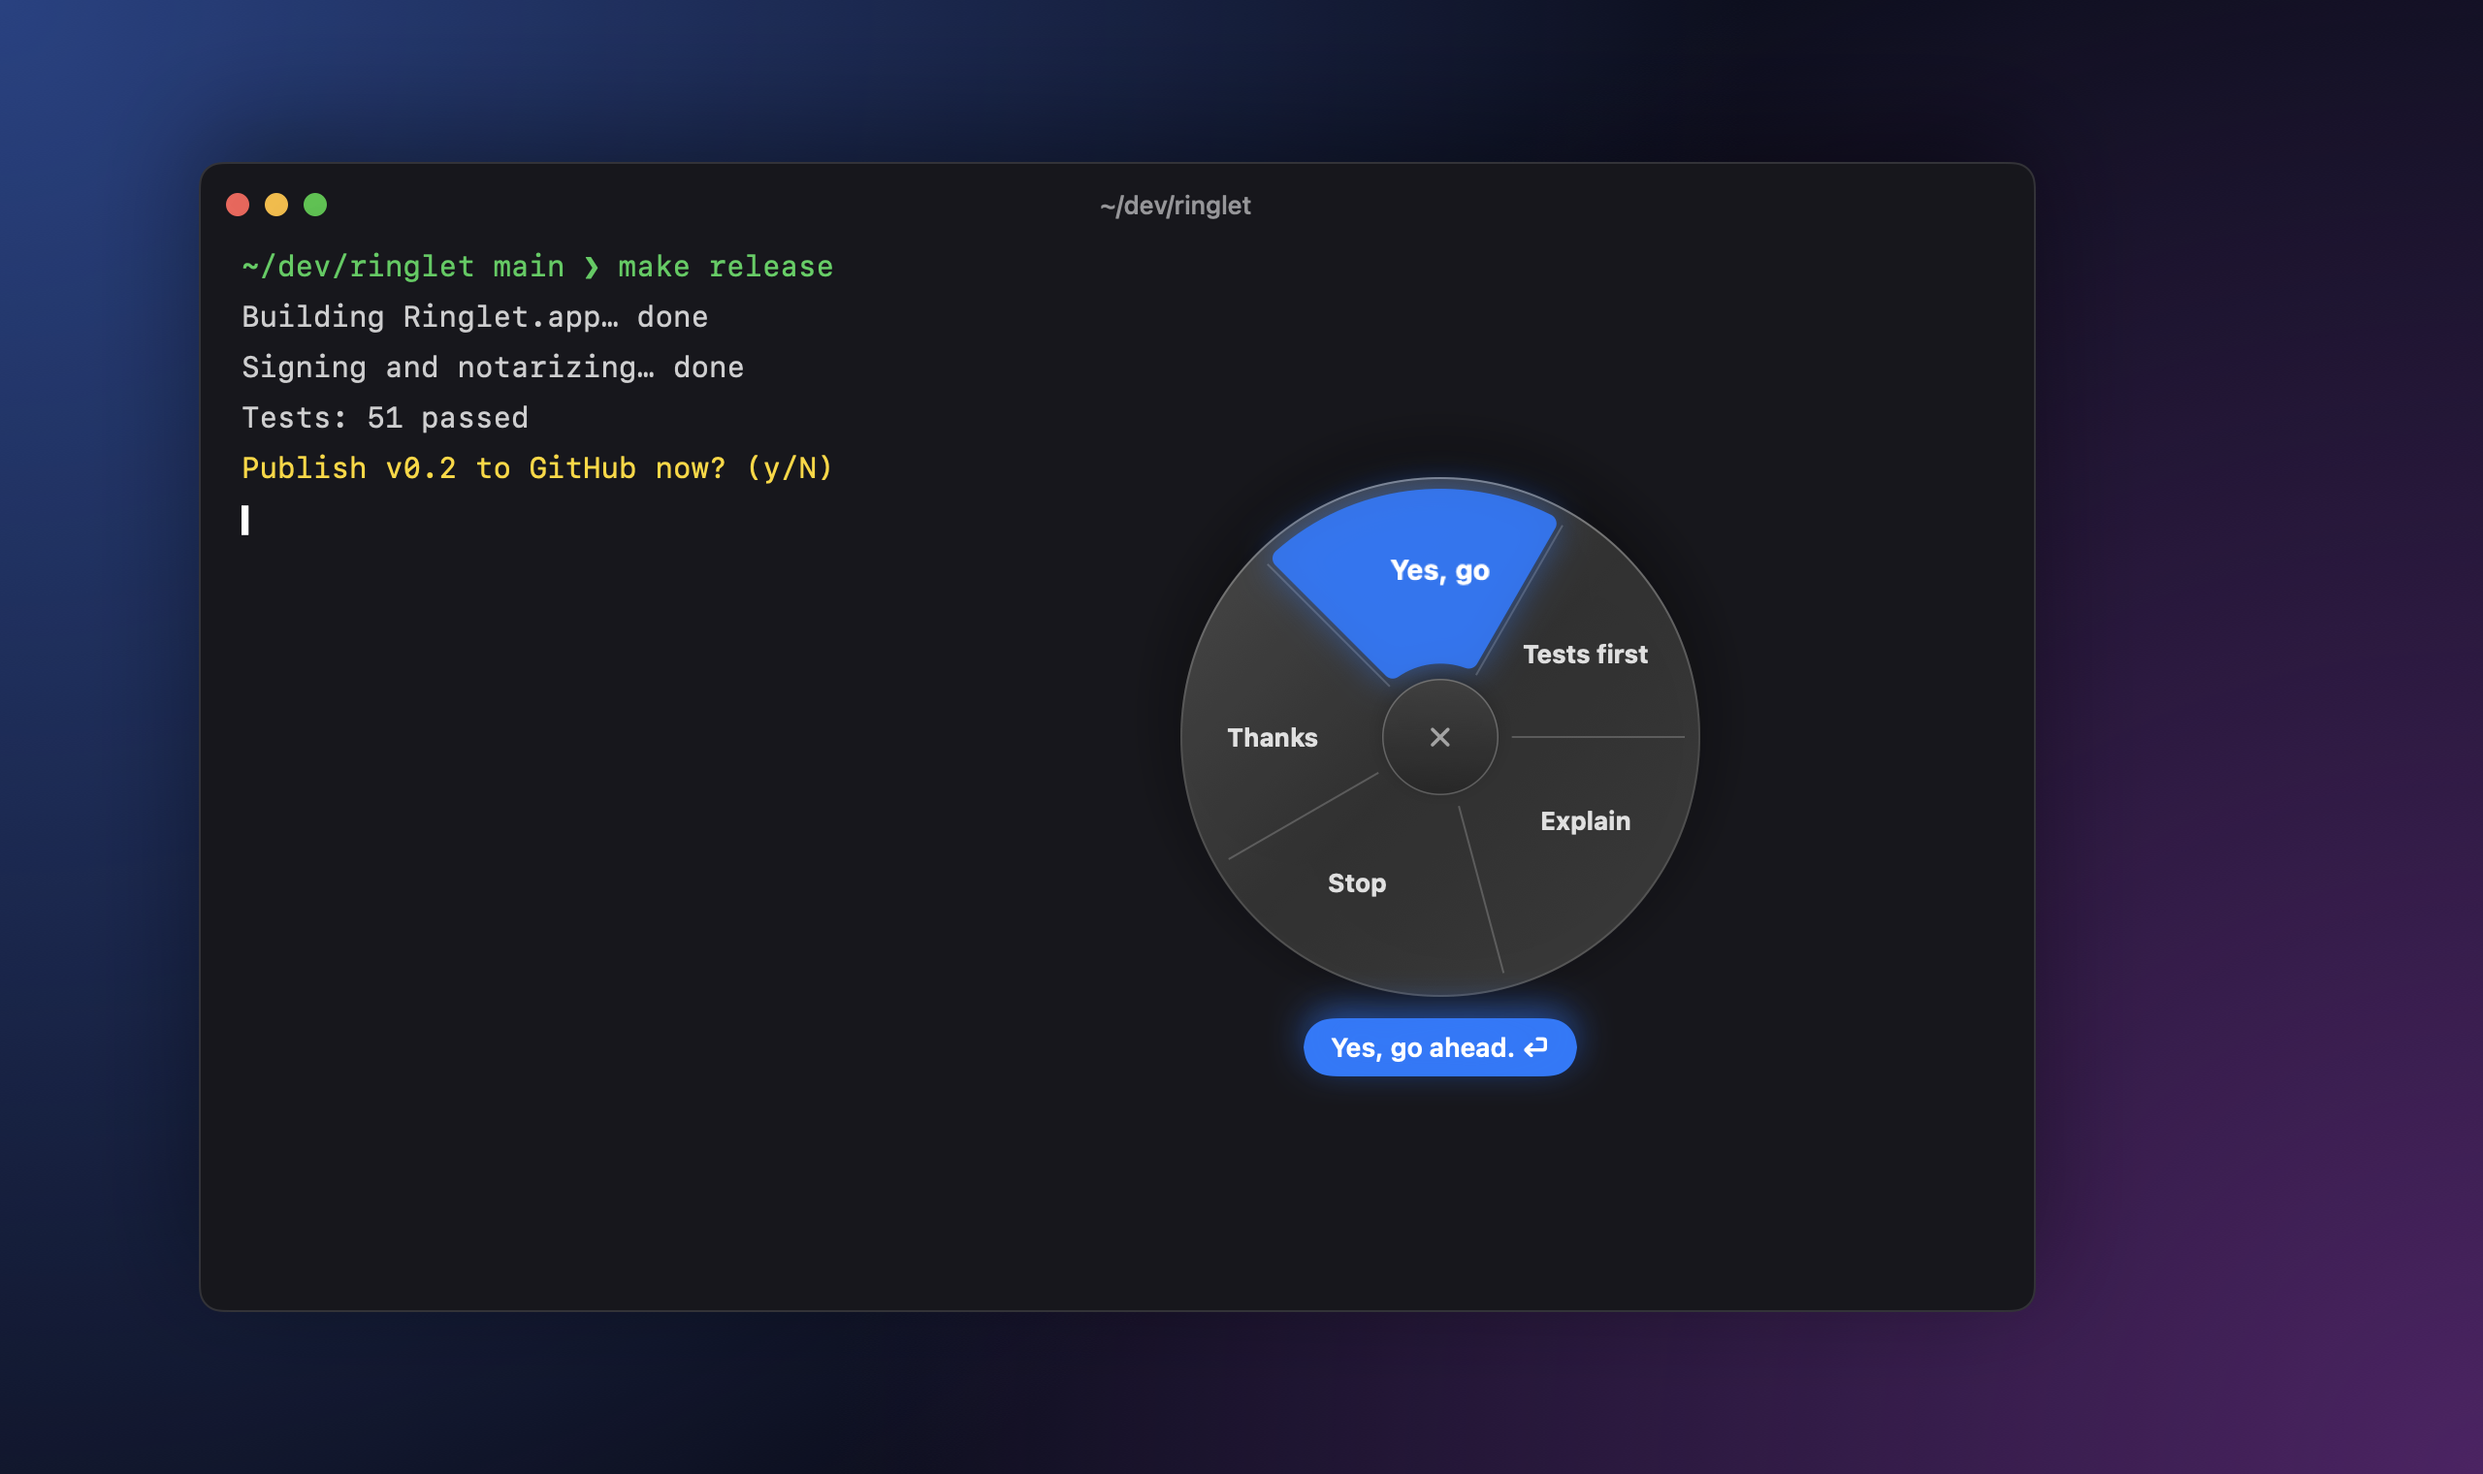
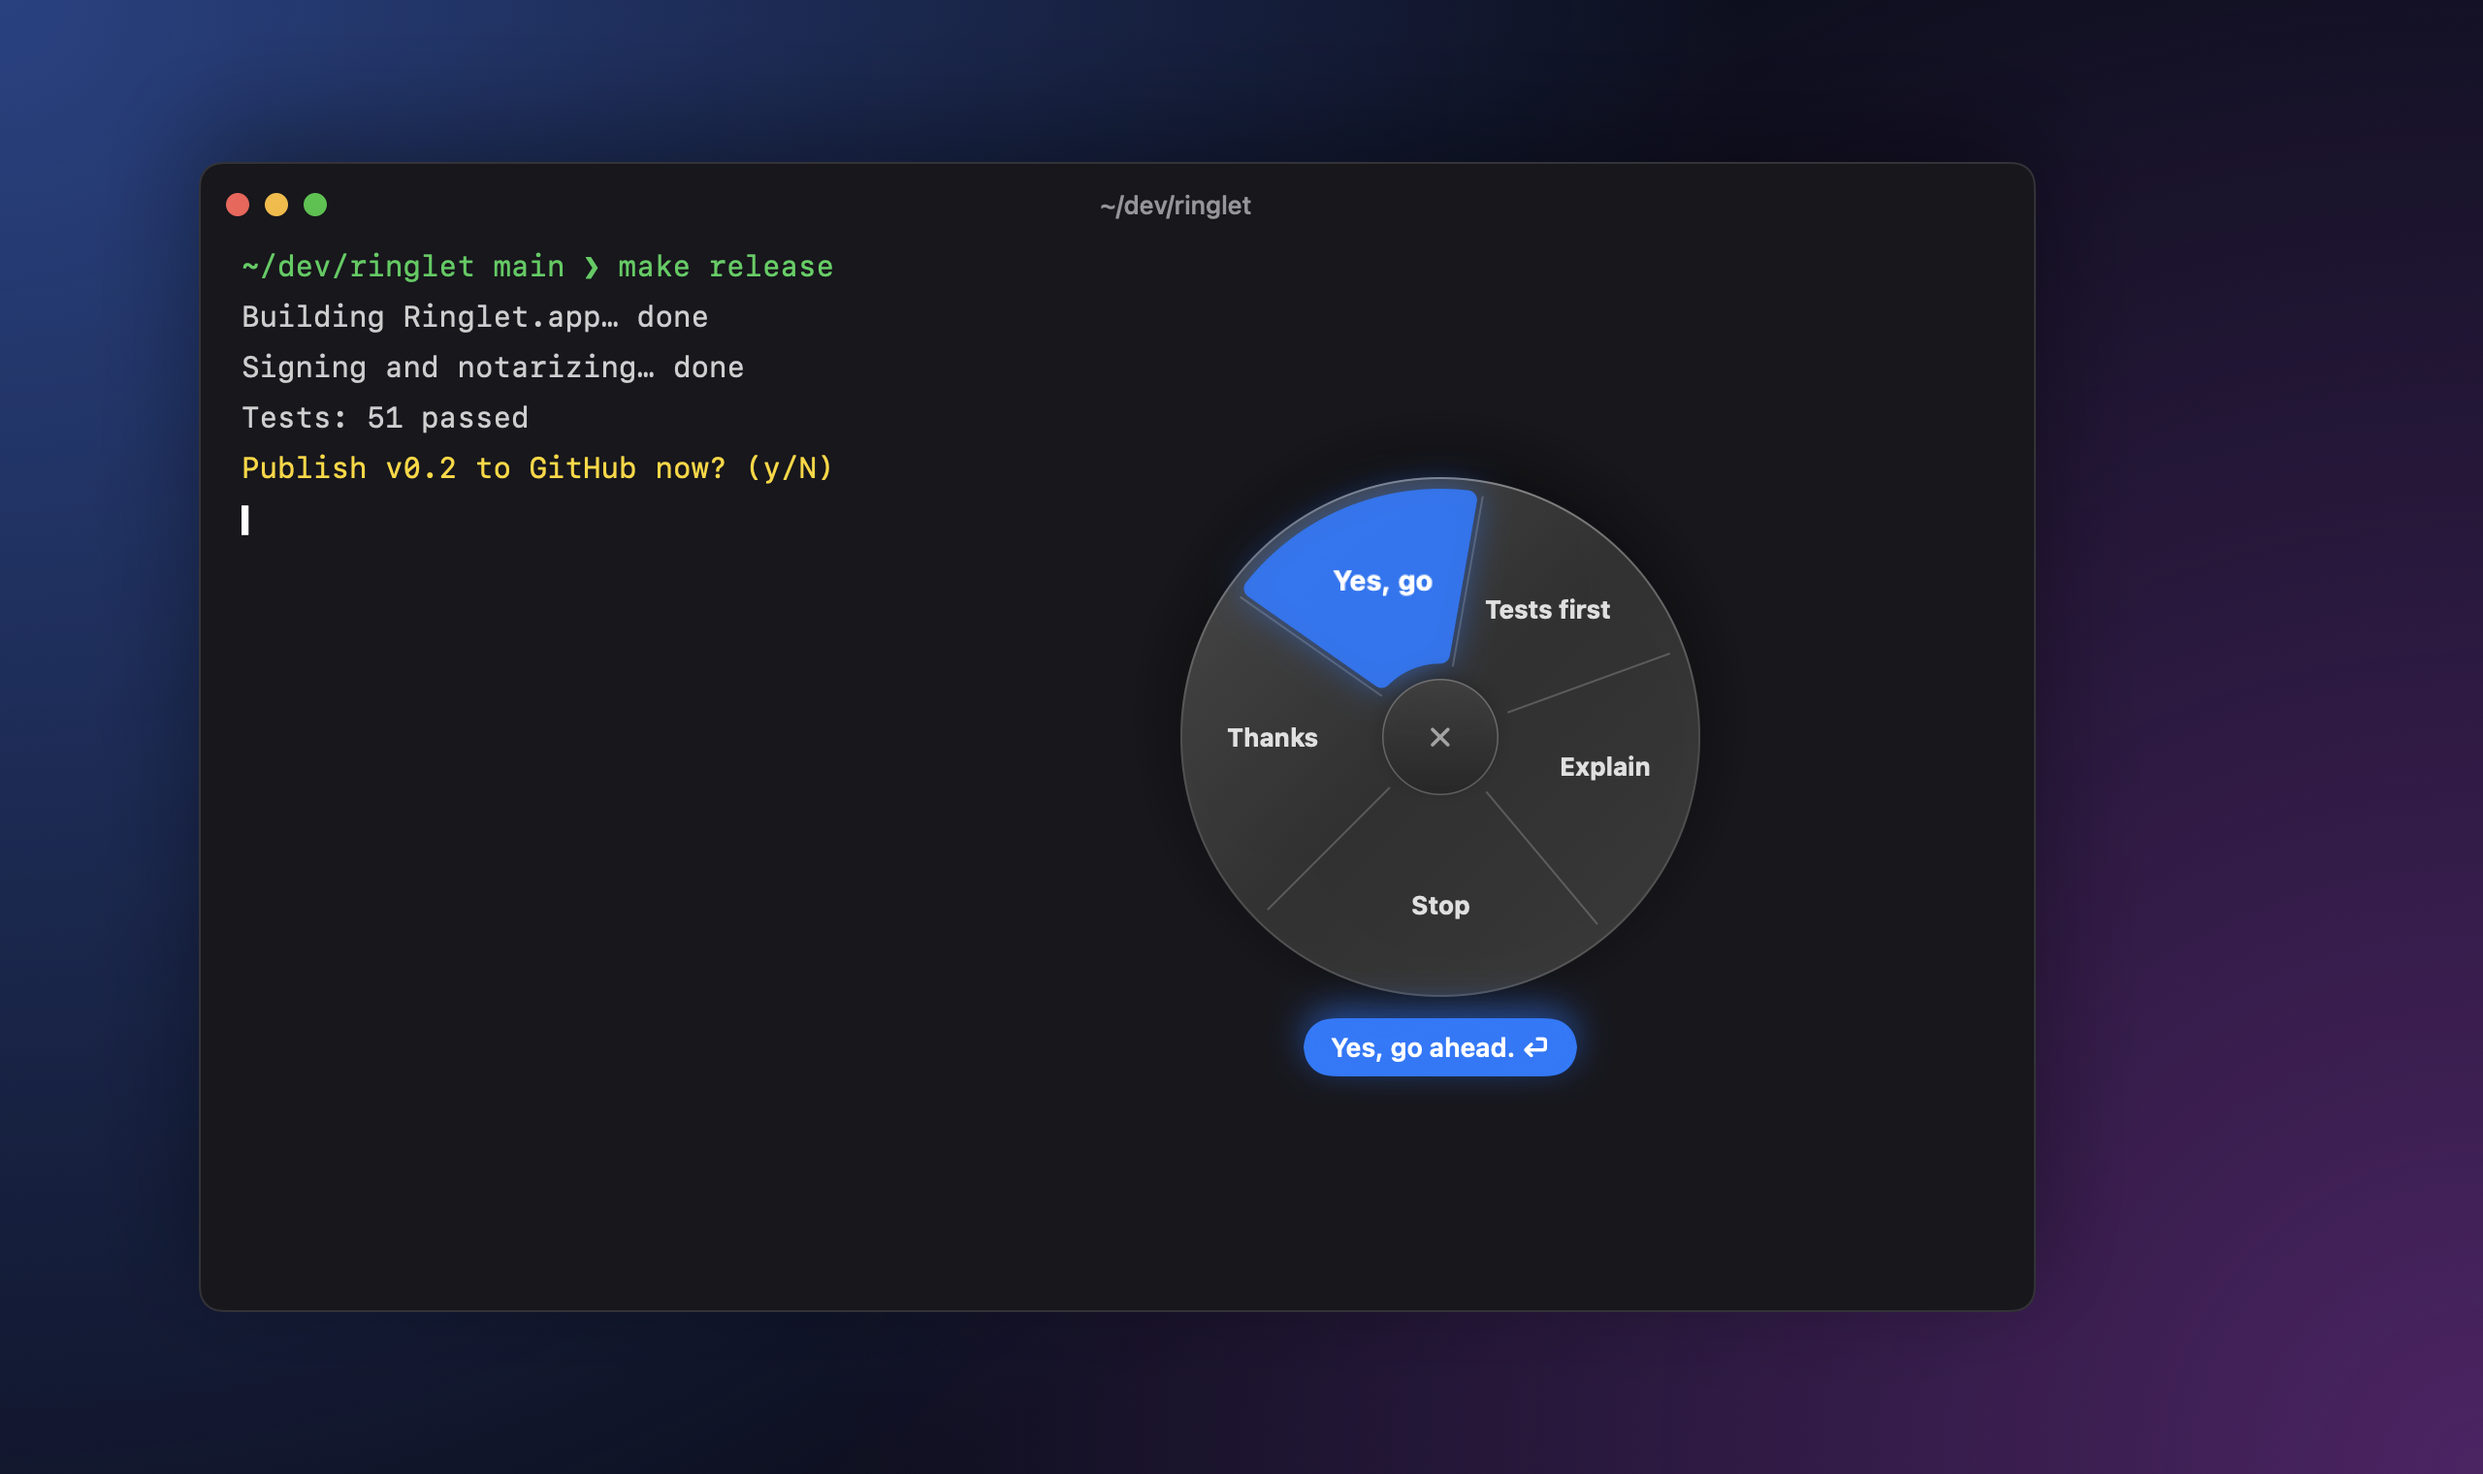
fix: l'écartement des actions ne croise plus deux voisines ; un texte sans heure va à l'heure la plus éloignée des autres

Changed region(s): [[0.5, 0.3092, 0.6562, 0.4638], [0.625, 0.4947, 0.6562, 0.5875], [0.5312, 0.5875, 0.5938, 0.6184]]

diff --git a/Sources/RingletCore/RingHours.swift b/Sources/RingletCore/RingHours.swift
@@ -24,8 +24,9 @@ public enum RingHours {
     public static let textDefaults: [String: Int] = [ActionKind.paste.rawValue: 0, ActionKind.revealCopiedPath.rawValue: 11]
 
     /// Les actions avec leur heure, dans le sens horaire. Une action à l'heure choisie ; deux à la même heure,
-    /// la seconde (dans l'ordre donné) prend l'heure libre suivante ; celles sans heure se répartissent sur les
-    /// heures restées libres, dans l'ordre donné. Au-delà de douze, les dernières sans heure sont laissées de côté.
+    /// la seconde (dans l'ordre donné) prend l'heure libre suivante ; celles sans heure vont chacune à l'heure la plus
+    /// éloignée de toutes les autres (puis des heures choisies), et se suivent dans l'ordre donné autour du cadran.
+    /// Au-delà de douze, les dernières sans heure sont laissées de côté.
     public static func place(_ actions: [FileAction], hours: [String: Int]) -> [(action: FileAction, hour: Int)] {
         var taken = Set<Int>(), placed: [(action: FileAction, hour: Int)] = [], bumped: [(FileAction, Int)] = []
         for action in actions {
@@ -39,10 +40,19 @@ public enum RingHours {
             guard taken.insert(hour).inserted else { continue }
             placed.append((action, hour))
         }
-        let free = (0..<count).filter { !taken.contains($0) }, loose = actions.filter { hours[$0.id] == nil }
-        for (index, action) in loose.enumerated() where index < free.count {
-            placed.append((action, free[index * free.count / loose.count]))
+        let pinned = taken
+        func distance(_ hour: Int, to set: Set<Int>) -> Int {
+            set.map { abs(hour - $0) }.map { min($0, count - $0) }.min() ?? count
         }
+        var chosen: [Int] = []
+        let loose = actions.filter { hours[$0.id] == nil }
+        for _ in loose where taken.count < count {
+            let free = (0..<count).filter { !taken.contains($0) }
+            let best = free.max { (distance($0, to: taken), distance($0, to: pinned), -$0) < (distance($1, to: taken), distance($1, to: pinned), -$1) }!
+            taken.insert(best)
+            chosen.append(best)
+        }
+        for (action, hour) in zip(loose, chosen.sorted()) { placed.append((action, hour)) }
         return placed.sorted { $0.hour < $1.hour }
     }
 
@@ -68,21 +78,29 @@ public enum RingHours {
         guard angles.count > 1 else { return angles }
         let gap = minimumGap(count: angles.count)
         let order = angles.indices.sorted { RingGeometry.normalized(angles[$0]) < RingGeometry.normalized(angles[$1]) }
-        var result = angles
-        for _ in 0..<200 {
+        // Positions « déroulées », croissantes le long du cercle : les écarts sont signés, une poussée ne peut pas
+        // faire passer une action de l'autre côté de sa voisine sans qu'on le voie.
+        var unrolled = [RingGeometry.normalized(angles[order[0]])]
+        for rank in 1..<order.count {
+            unrolled.append(unrolled[rank - 1] + RingGeometry.normalized(angles[order[rank]] - angles[order[rank - 1]]))
+        }
+        let initial = unrolled
+        for _ in 0..<400 {
             var moved = false
-            for (rank, index) in order.enumerated() {
-                let nextIndex = order[(rank + 1) % order.count]
-                let distance = RingGeometry.normalized(result[nextIndex] - result[index])
-                let deficit = gap - (distance == 0 && order.count > 1 ? 360 : distance)
+            for rank in order.indices {
+                let next = (rank + 1) % order.count
+                let distance = (next == 0 ? unrolled[0] + 360 : unrolled[next]) - unrolled[rank]
+                let deficit = gap - distance
                 guard deficit > 0.001 else { continue }
-                result[index] -= deficit / 2
-                result[nextIndex] += deficit / 2
+                unrolled[rank] -= deficit / 2
+                unrolled[next] += deficit / 2
                 moved = true
             }
             if !moved { break }
         }
-        return result.map { ($0 * 100).rounded() / 100 }
+        var result = angles
+        for (rank, index) in order.enumerated() { result[index] = ((angles[index] + unrolled[rank] - initial[rank]) * 100).rounded() / 100 }
+        return result
     }
 
     /// L'anneau prêt à afficher : ses actions dans le sens horaire et sa géométrie.

diff --git a/Tests/RingletCoreTests/RingHoursTests.swift b/Tests/RingletCoreTests/RingHoursTests.swift
@@ -28,7 +28,7 @@ private func text(_ label: String) -> FileAction {
     let texts = [text("Oui"), text("Tests"), text("Explique"), text("Stop")]
     let paste = SnippetCatalog.pasteAction
     let placed = RingHours.place([paste] + texts, hours: RingHours.textDefaults)
-    #expect(placed.map(\.hour) == [0, 1, 3, 6, 9])
+    #expect(placed.map(\.hour) == [0, 3, 5, 6, 9])
     #expect(placed[0].action.kind == .paste)
     #expect(placed.map(\.action.shortLabel).dropFirst() == ["Oui", "Tests", "Explique", "Stop"])   // l'ordre des réglages
     #expect(RingHours.place(texts, hours: [:]).map(\.hour) == [0, 3, 6, 9])
@@ -38,7 +38,7 @@ private func text(_ label: String) -> FileAction {
     let texts = [text("A"), text("B"), text("C")]
     let placed = RingHours.place(texts, hours: [texts[2].id: 0])
     #expect(placed.map(\.action.shortLabel) == ["C", "A", "B"])
-    #expect(placed.map(\.hour) == [0, 1, 6])
+    #expect(placed.map(\.hour) == [0, 3, 6])
 }
 
 @Test func layoutGivesTheRingItsAnglesAndEqualSectorsBeyondTwelve() {
@@ -79,4 +79,15 @@ private func text(_ label: String) -> FileAction {
         #expect(RingGeometry.normalized(next - spread[index]) >= gap - 0.01)
     }
     #expect(abs(spread[0] + 84) < 0.01)   // Remonter, poussé de 6° par la chaîne, reste en haut
+}
+
+@Test func aLooseTextGoesFarFromTheChosenHoursAndTheChainKeepsItsAnchor() {
+    // Le cas de Mathias : un texte à 12 h, Coller à 1 h, le chemin copié à 11 h, un second texte sans heure.
+    let a = TextSnippet(label: "OK, oui vas-y.", text: "OK, oui vas-y."), b = TextSnippet(label: "Tu peux commit et push", text: "Tu peux commit et push")
+    var actions = SnippetCatalog.actions(for: [a, b], paste: true)
+    actions.append(ActionCatalog.revealCopiedPath)
+    let hours = RingHours.textDefaults.merging([a.id.uuidString: 0, ActionKind.paste.rawValue: 1]) { $1 }
+    let laid = RingHours.layout(actions, hours: hours)
+    #expect(laid.actions.map(\.shortLabel) == ["OK, oui vas-y.", "Paste", "Tu peux commit et push", "Copied"])
+    #expect(laid.angles == [-90, -18, 90, 198])   // le texte choisi reste à midi, Coller et Copié s'écartent de 72°
 }
